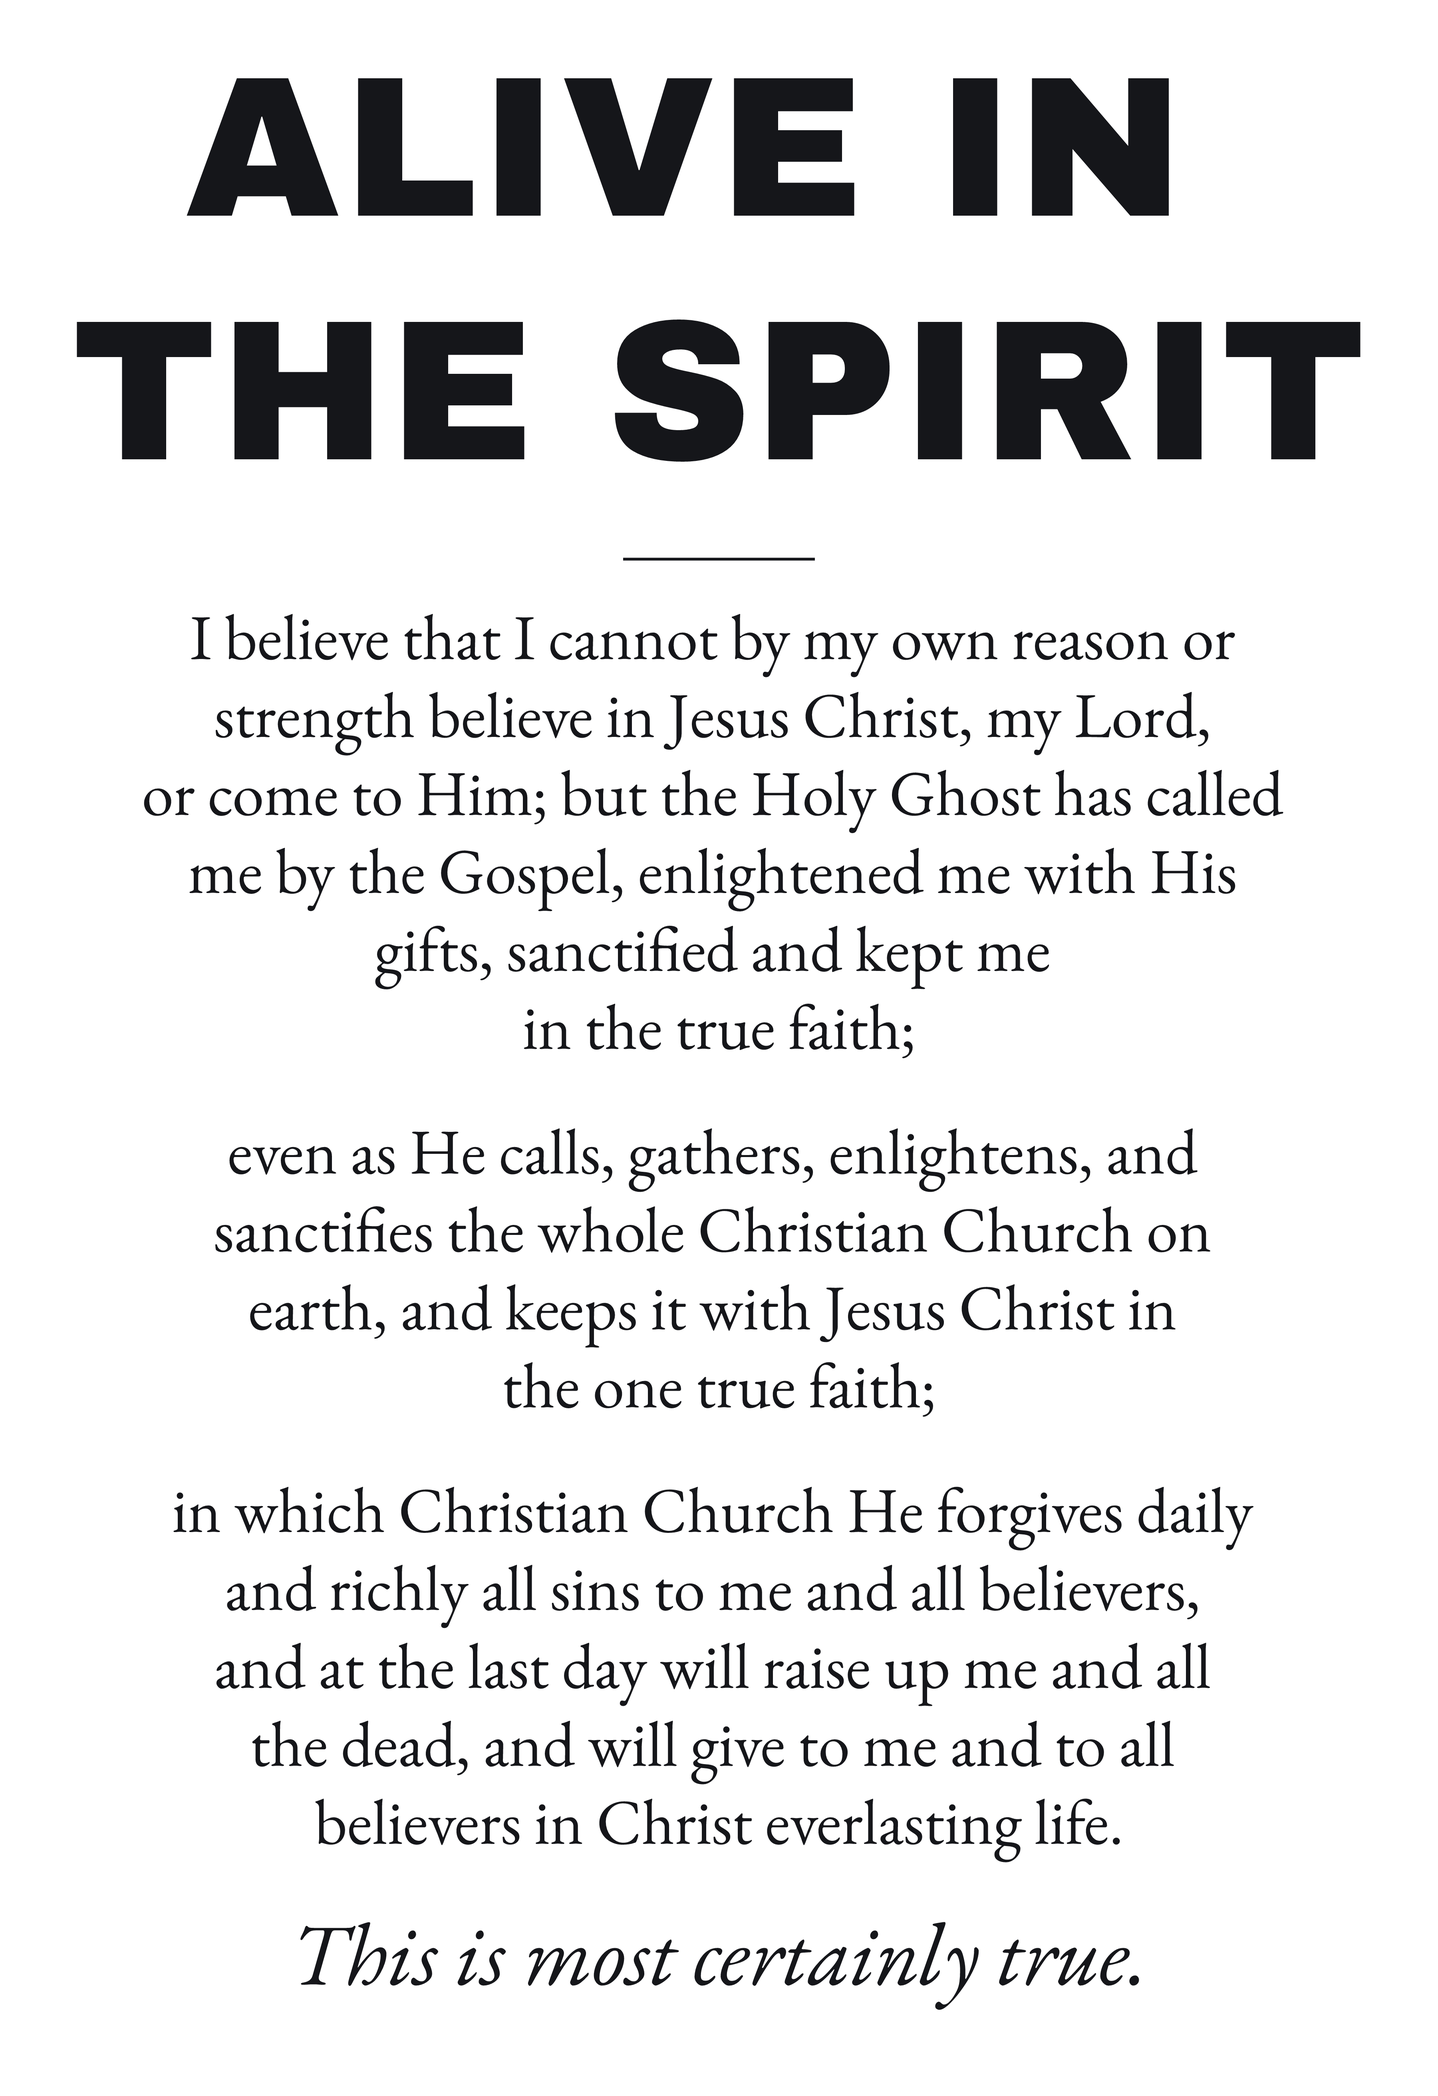
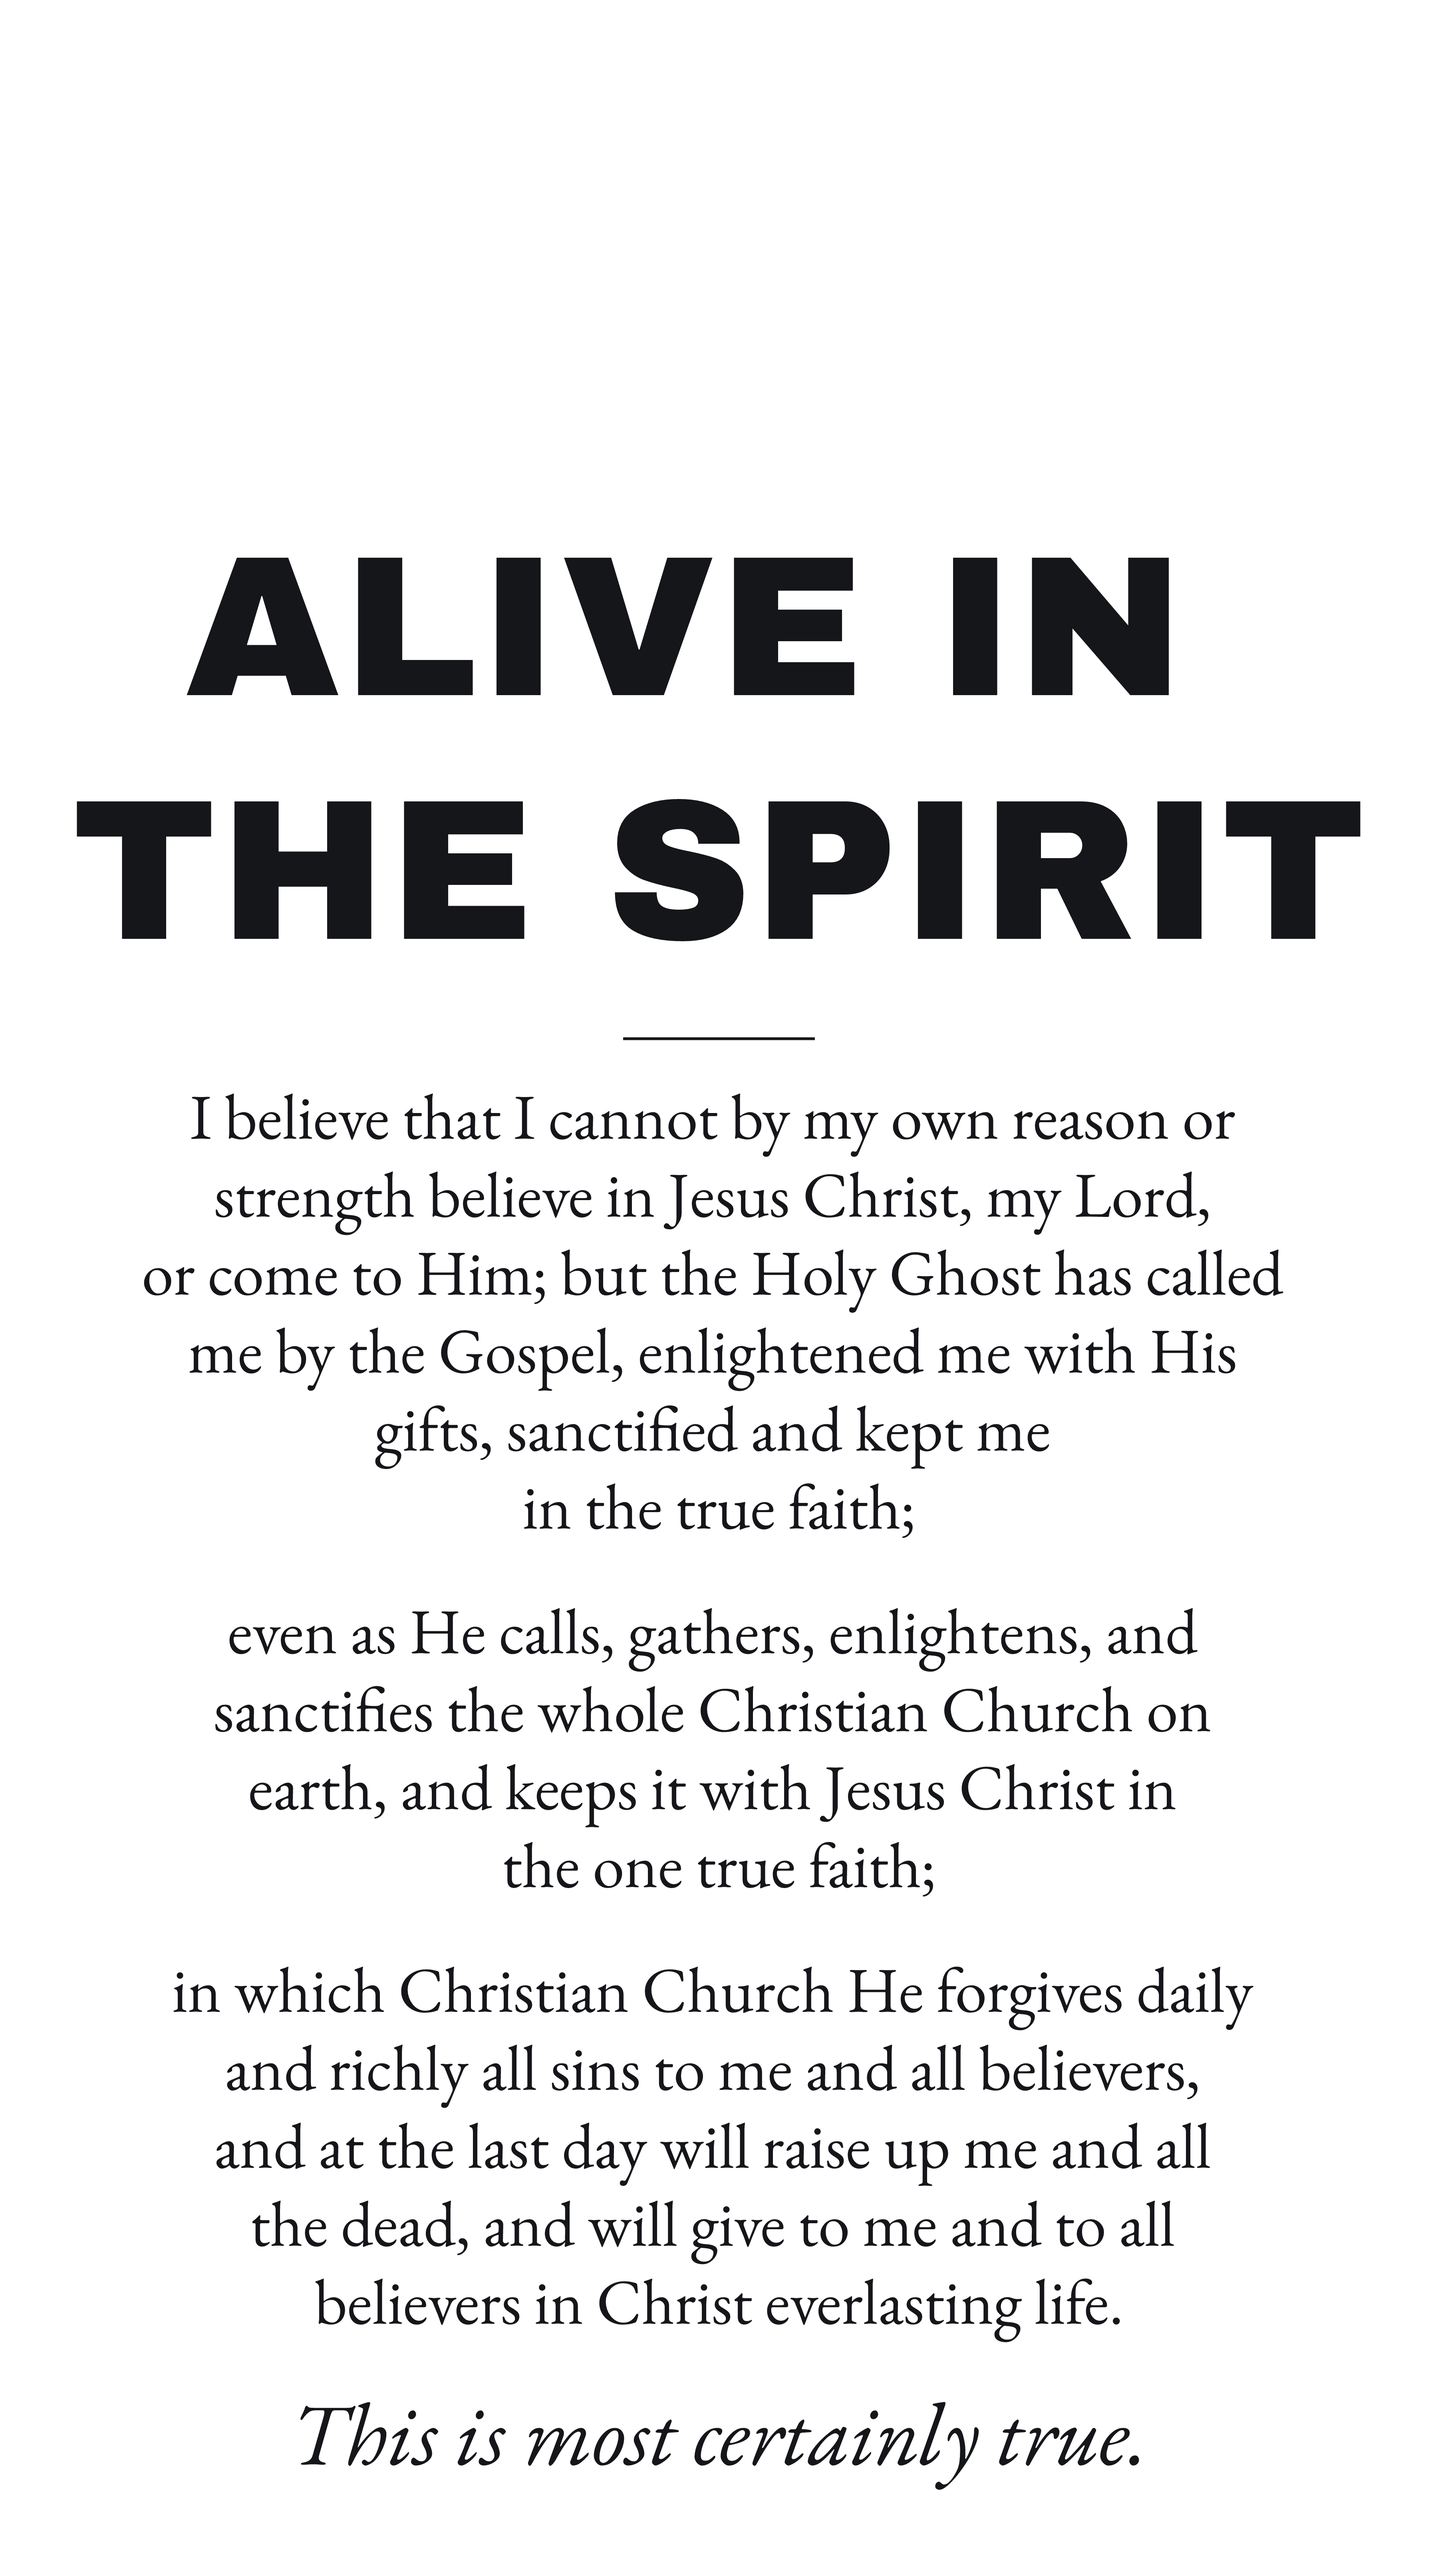
Add front_top_padding / back_top_padding for POD placement
Printful (and most PODs) anchor uploaded designs at the top of the
print area, so the title ends up 2-3" below the collar by default.
The user prefers the design to sit lower on the shirt — closer to
mid-chest than upper-chest.

New optional frontmatter knobs:

  front_top_padding: <px>
  back_top_padding:  <px>

Adds transparent whitespace at the top of the canvas in svg user
units (= pixels at 300 dpi). The whole design then renders lower
within the canvas, which translates to lower placement on the shirt
once uploaded. Default 0 (no change).

Set to 1200 on the third-article shirt — pushes the title roughly
4" further below the collar than before.

Trade-off: design is now taller, so when scaled to fit a fixed POD
print area, all elements (header included) become proportionally
smaller. For a 16" print cap that's about a 12-14% size reduction
on the header — still very legible (~1.1" tall).

Changed region(s): [[0.0311, 0.1562, 0.9644, 0.9688], [0.1244, 0.0312, 0.5911, 0.125], [0.6533, 0.0312, 0.84, 0.125]]

diff --git a/build.py b/build.py
@@ -215,7 +215,11 @@ def render_front_layout(meta, blocks, palette, with_bg=True):
     closing_font = 240
 
     content: list[str] = []
-    y = TITLE_Y
+    # Optional transparent padding at the top of the canvas — pushes the whole
+    # design lower on the shirt for PODs (like Printful) that anchor uploads at
+    # the top of the print area. Set front_top_padding in the markdown
+    # frontmatter (in svg user units = px @ 300dpi; e.g. 1500 ≈ 5 inches).
+    y = TITLE_Y + int(meta.get("front_top_padding", 0))
     if front_heading:
         t_lines = title_lines(front_heading, max_w)
         svg, end_y = text_block(
@@ -284,7 +288,7 @@ def render_back_layout(meta, blocks, palette, with_bg=True):
     body_font = 160
 
     content: list[str] = []
-    y = TITLE_Y
+    y = TITLE_Y + int(meta.get("back_top_padding", 0))
     h_lines = title_lines(heading, max_w)
     svg, end_y = text_block(
         cx, y, h_lines, TITLE_FONT, palette["body"],

diff --git a/shirts/third-article.md b/shirts/third-article.md
@@ -6,6 +6,11 @@ front_heading: Dead in Sin
 back_heading: |
   Alive in
   the Spirit
+# Push the design lower on the shirt for POD services that anchor uploads at
+# the top of the print area (e.g. Printful). Units are svg user units (px @
+# 300dpi); 900 ≈ 3 inches, 1500 ≈ 5 inches. Tweak per side.
+front_top_padding: 1200
+back_top_padding: 1200
 ---
 
 ## Front
